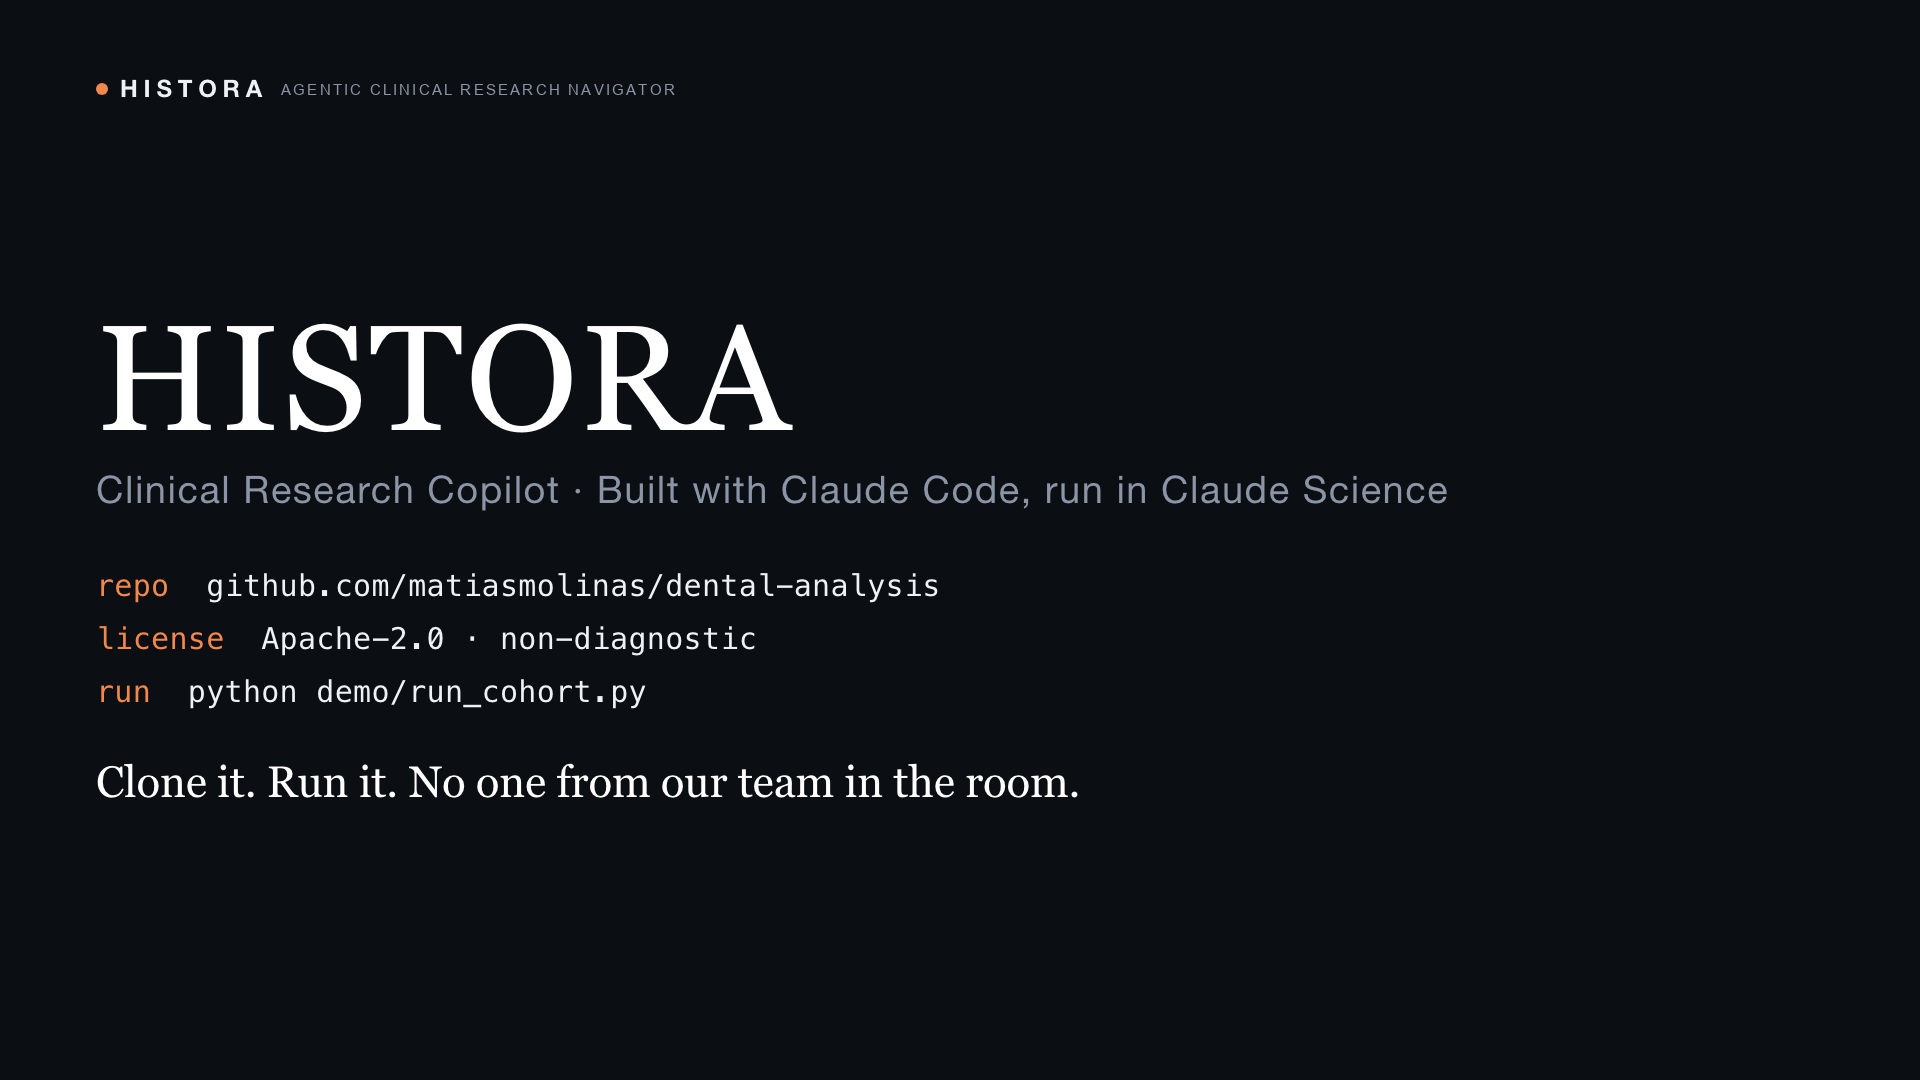
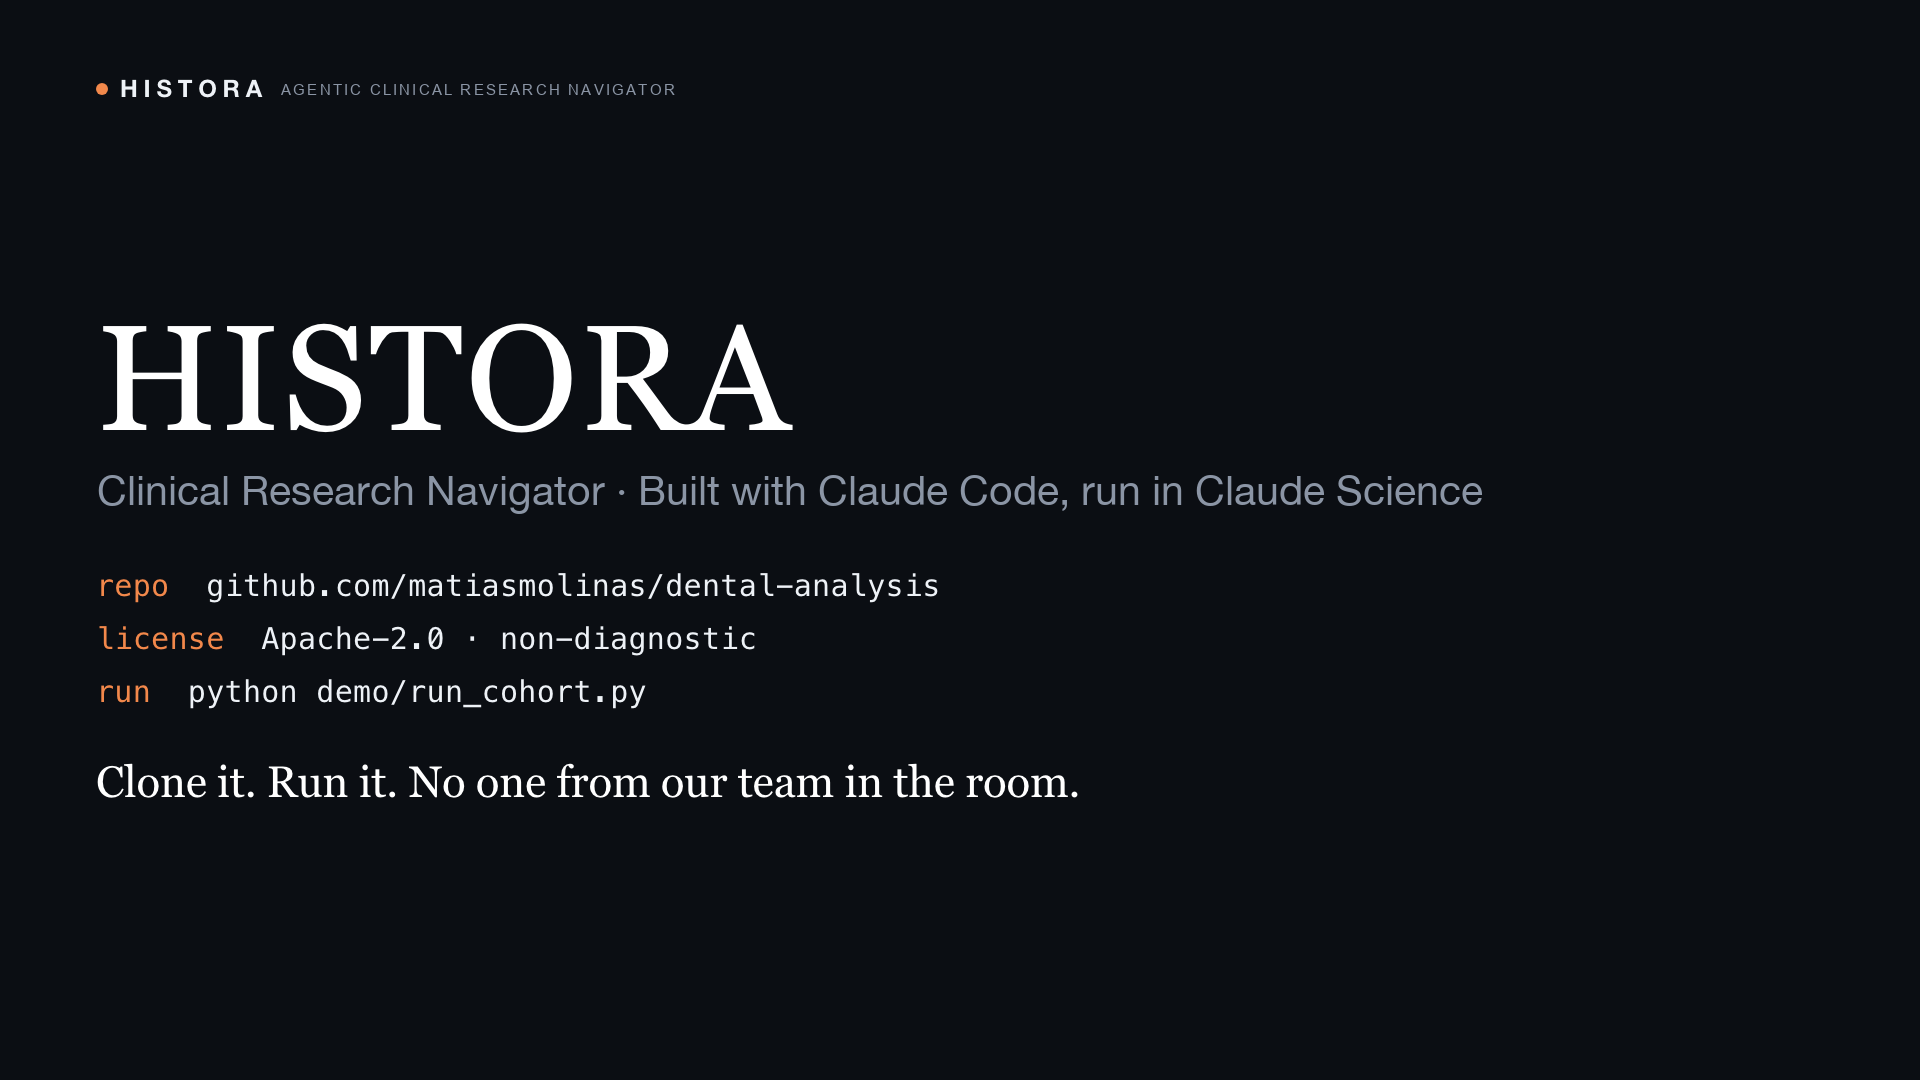
docs: fix "Copilot" → "Navigator" on final slide; refresh demo video, PDF, and README
- s10.png: subtitle now reads "Clinical Research Navigator" (was "Copilot")
- HISTORA-demo.mp4: regenerated (narrated + captioned) with corrected final slide
- README.md: point embedded video to the new GitHub attachment
- HISTORA-presentation.pdf: rebuilt from corrected slides
- remove stale HISTORA-demo-vo.mp4

Changed region(s): [[0.2188, 0.4278, 0.7812, 0.4889], [0.0625, 0.4278, 0.1875, 0.4889]]

diff --git a/README.md b/README.md
@@ -37,7 +37,7 @@ flagship number: [`docs/SELF-CORRECTION.md`](docs/SELF-CORRECTION.md).**
 
 ## ▶ 3-minute demo
 
-<video src="https://github.com/user-attachments/assets/b7d275fc-414f-4507-a9ad-04e3415a3696" controls></video>
+<video src="https://github.com/user-attachments/assets/a17600c0-3180-489c-a710-47bb4d9b9d79" controls></video>
 
 The builder-track submission video (narrated + captioned, 1080p, ~2 min): the problem and the promise → how
 it was built (Claude Code, in a supervised autonomous loop, operating Claude Science) → the navigator building